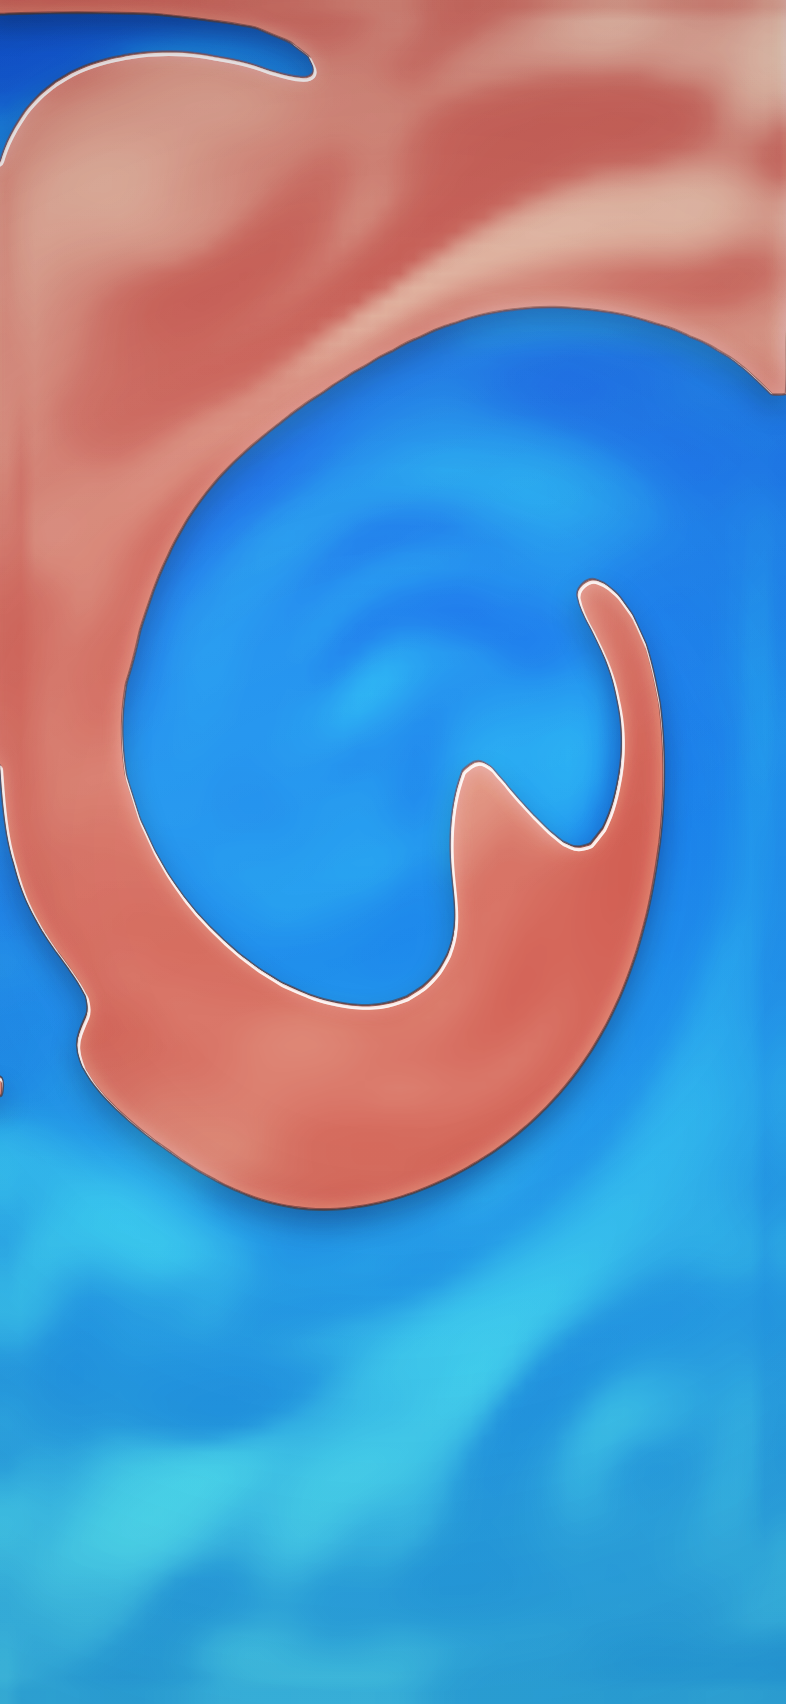
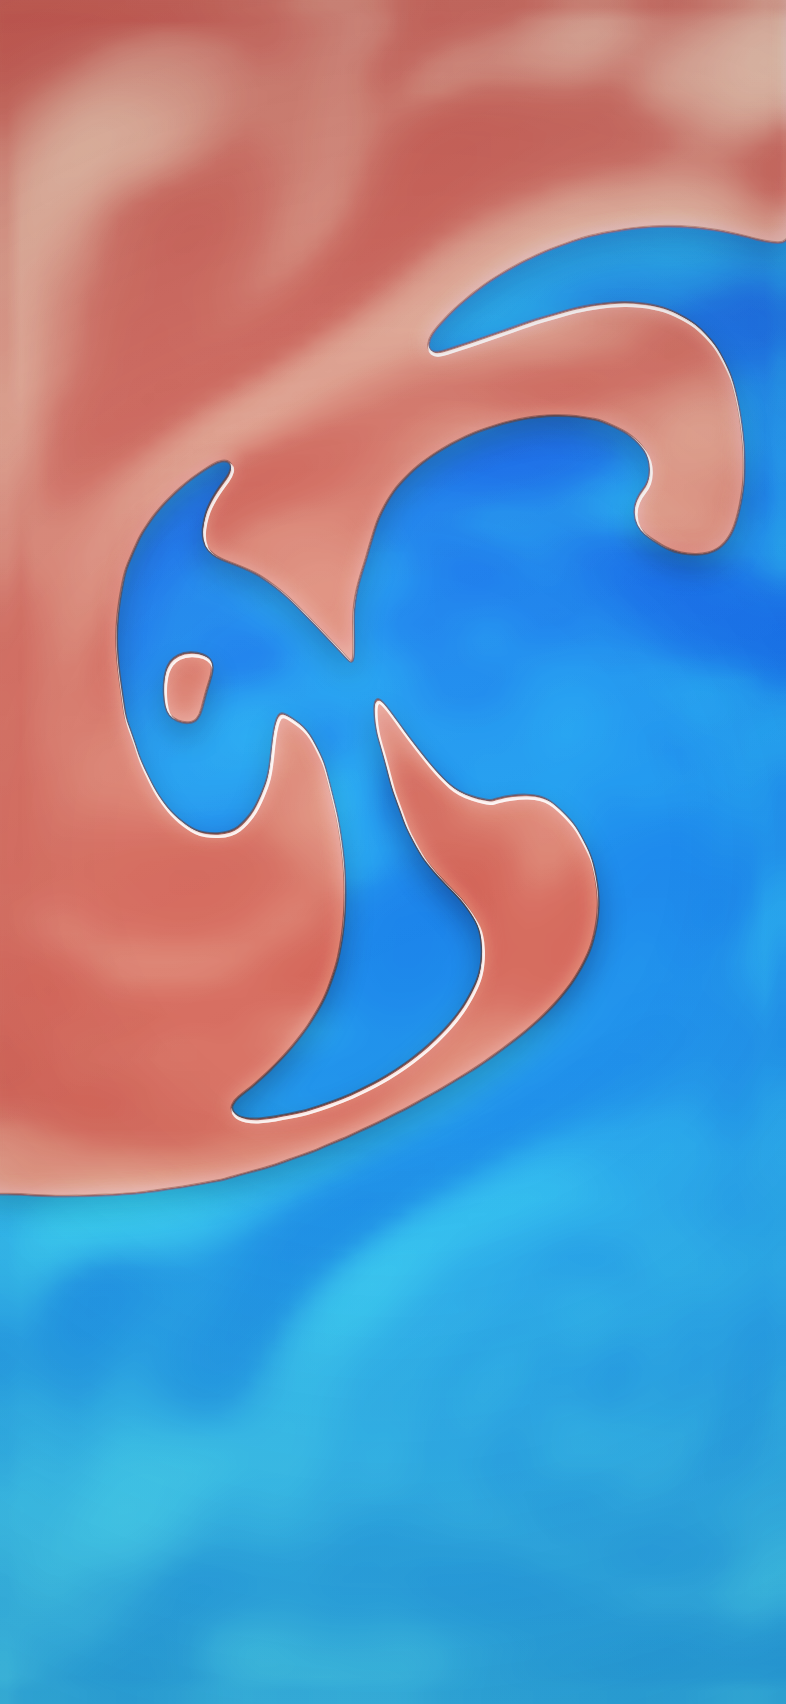
Fix the sign of the interfacial tension force
Fluid is round, and this was not. The boundaries had corners, spikes and long
tapering spears, and nothing was pulling them back. That is not a shading
problem, which is where the last two commits went looking; it is the force
that exists to make boundaries round pointing the wrong way.

The Korteweg force is +mu*grad(phi), equal to -phi*grad(mu) up to a gradient
the pressure projection absorbs. This had the minus. On a droplet, phi falls
outward so grad(phi) points inward, and mu at the rim is about
-eps^2*phi_r/r with phi_r negative, so mu is positive: positive times inward
is inward, which is the Laplace pressure squeezing the drop into the smallest
boundary that will hold it. With the minus it points outward, and every bump
on the interface is a bump the force makes bigger.

The test that settles it is one line — plant a square in still liquid and ask
whether it becomes a circle — and it did not exist, which is why the bug
survived three rounds of tuning and two renderer rewrites. Measured as the
isoperimetric quotient 4*pi*A/P^2, where a circle is 1.00 and a square 0.79:
with the wrong sign a square fell to 0.47 over sixteen seconds, and to 0.17
at eight times the coefficient, because a stronger anti-surface-tension
roughens faster. With the sign fixed it reaches 0.99 in two seconds and 1.00
in four; a plus-sign goes from 0.69 to 1.00 in two.

It hid because Allen-Cahn relaxation is mean-curvature flow, so the phase
[…]

diff --git a/wallpaper/oil-water.html b/wallpaper/oil-water.html
@@ -520,7 +520,13 @@ const PROJECT_ITERS = 18;
  */
 const EPS = 1.2, EPS2 = EPS * EPS;
 const MOBILITY = 0.4;
-const TENSION = 300 * CONFIG.tension;
+/* Doubled once the force was pointing the right way. Everything about this
+ * number was tuned against a sign error — it had been dropped from 900 to
+ * 300 because raising it made the interface *worse*, which is what an
+ * anti-surface-tension does. With the sign fixed, more of it is better: it
+ * rounds a planted square into a circle in about two seconds instead of
+ * four, and a shake still tears the layer into twenty-odd bodies. */
+const TENSION = 600 * CONFIG.tension;
 const RIPPLE_RESET = 0.55;   // 1/s, how fast the surface re-roughens
 
 function idx(i, j) { return j * GW + i; }
@@ -809,15 +815,43 @@ function fixedStep(dt) {
     }
   }
 
-  // Interfacial tension, from the potential rather than from a curvature.
+  /* Interfacial tension, from the potential rather than from a curvature.
+   *
+   * The sign here is the whole of it, and it was wrong. The Korteweg force
+   * is +mu*grad(phi) — equal to -phi*grad(mu) up to a gradient the pressure
+   * projection absorbs — and this had the minus, which is an *anti*-surface
+   * tension: a force that pays to make interface instead of to remove it.
+   *
+   * Check it on a droplet. Oil is phi = +1 inside, so phi falls outward and
+   * grad(phi) points inward. At the rim mu is about -eps^2 * phi_r / r, and
+   * phi_r is negative, so mu is positive. Positive times inward is inward,
+   * which is the Laplace pressure squeezing the drop into the smallest
+   * boundary that will hold it. With the minus it points outward, and every
+   * bump on the interface is a bump the force makes bigger.
+   *
+   * Everything about how this looked follows from that one character. Blobs
+   * had corners and spikes and long thin spears, because nothing was pulling
+   * them round; filaments never beaded; and the harder the coefficient was
+   * driven the worse it got. Measured on a planted square, with no gravity
+   * and nothing else acting: it went from an isoperimetric quotient of 0.81
+   * to 0.47 over sixteen seconds instead of rising toward a circle's 1.0,
+   * and at a coefficient of eight it reached 0.17.
+   *
+   * It was masked at first. Allen-Cahn relaxation is mean-curvature flow, so
+   * it rounds shapes on its own, and at the mobility this shipped with
+   * originally it was outrunning the bad force. Lowering the mobility while
+   * chasing fragmentation took that cover away — so the bug was introduced
+   * on day one and only became visible three commits later, which is why the
+   * "fluid isn't round" reading was pointing at the physics and not at the
+   * shading it looked like it was pointing at. */
   chemicalPotential();
   for (let j = 1; j < GH - 1; j++) {
     for (let i = 1; i < GW - 1; i++) {
       const k = j * GW + i;
       const gxp = (phi[k + 1] - phi[k - 1]) * 0.5;
       const gyp = (phi[k + GW] - phi[k - GW]) * 0.5;
-      u[k] -= TENSION * mu[k] * gxp * dt;
-      v[k] -= TENSION * mu[k] * gyp * dt;
+      u[k] += TENSION * mu[k] * gxp * dt;
+      v[k] += TENSION * mu[k] * gyp * dt;
     }
   }
 
@@ -1088,6 +1122,49 @@ function contour() {
     else loopLen = start;
   }
   loopStart[loopCount] = loopLen;
+  smoothLoops();
+}
+
+/* Taubin smoothing on the extracted polygons.
+ *
+ * The field is smooth; the polygon is not. Marching squares puts a vertex on
+ * every grid edge the isoline crosses and joins them with straight segments,
+ * so the outline picks up angular detail at the cell scale that is an
+ * artefact of the sampling and is not in the field being sampled. On a
+ * fifty-six cell grid stretched across a phone that reads as facets on
+ * something that should not have any.
+ *
+ * Taubin rather than plain Laplacian: a shrink pass followed by a slightly
+ * larger unshrink pass, which removes the high-frequency wiggle without
+ * pulling the whole contour inward. Plain smoothing would quietly eat the
+ * oil, and this page has spent enough effort conserving its mass to not want
+ * the renderer losing it again.
+ */
+const SMOOTH_L = 0.55, SMOOTH_M = -0.58, SMOOTH_PASSES = 2;
+let smoothBuf = null;
+
+function smoothLoops() {
+  if (!smoothBuf || smoothBuf.length < loopLen * 2) smoothBuf = new Float32Array(loopLen * 2 + 64);
+  for (let pass = 0; pass < SMOOTH_PASSES * 2; pass++) {
+    const k = (pass & 1) ? SMOOTH_M : SMOOTH_L;
+    for (let L = 0; L < loopCount; L++) {
+      const st = loopStart[L], en = loopStart[L + 1], m = en - st;
+      if (m < 5) continue;
+      for (let n = 0; n < m; n++) {
+        const c = st + n;
+        const a = st + (n + m - 1) % m, b = st + (n + 1) % m;
+        smoothBuf[c * 2] = loopXY[c * 2] +
+          k * ((loopXY[a * 2] + loopXY[b * 2]) * 0.5 - loopXY[c * 2]);
+        smoothBuf[c * 2 + 1] = loopXY[c * 2 + 1] +
+          k * ((loopXY[a * 2 + 1] + loopXY[b * 2 + 1]) * 0.5 - loopXY[c * 2 + 1]);
+      }
+      for (let n = 0; n < m; n++) {
+        const c = st + n;
+        loopXY[c * 2] = smoothBuf[c * 2];
+        loopXY[c * 2 + 1] = smoothBuf[c * 2 + 1];
+      }
+    }
+  }
 }
 
 /** The extracted loops as one path, smoothed. The polygon's vertices sit on
@@ -1594,6 +1671,28 @@ window.__shaker = {
   diag(on) { diagOn = !!on; diagSince = performance.now(); diagFrames = 0; diagJs = 0; },
   icon(size) { return installIcon(size); },
 
+  /** Plant a known shape — "square", "cross" or "disc" — in still liquid.
+   *
+   *  This is a test fixture and it is here on purpose. Interfacial tension
+   *  exists to minimise perimeter, so the one-line statement of whether it
+   *  works is "does a square become a circle", and there is no way to ask
+   *  that of a cell full of whatever the last shake left behind. The sign
+   *  error this page shipped with survived three rounds of tuning and two
+   *  renderer rewrites precisely because nothing could ask it. */
+  plant(kind) {
+    for (let j = 0; j < GH; j++) for (let i = 0; i < GW; i++) {
+      const x = (i - GW / 2) / (GW * 0.5), y = (j - GH / 2) / (GW * 0.5);
+      let d;
+      if (kind === "square") d = 0.42 - Math.max(Math.abs(x), Math.abs(y));
+      else if (kind === "cross") d = 0.42 - Math.min(Math.max(Math.abs(x), Math.abs(y) - 0.3),
+                                                     Math.max(Math.abs(x) - 0.3, Math.abs(y)));
+      else d = 0.42 - Math.hypot(x, y);
+      phi[j * GW + i] = Math.tanh(d * GW * 0.5 / 1.4);
+    }
+    u.fill(0); v.fill(0); p.fill(0);
+    targetMean = meanPhi();
+  },
+
   /** Shake it without shaking it. */
   shake: emulsify,
 
@@ -1621,6 +1720,32 @@ window.__shaker = {
        * and is the honest measure of "has it separated". */
       interfaceCells: interface_ / cells,
       blobs: loopCount, drawnArea: drawnArea(),
+      /* Roundness, as the isoperimetric quotient 4*pi*A / P^2 of the whole
+       * oil phase. One for a circle, 0.79 for a square, and tending to zero
+       * for anything long and thin or spiky.
+       *
+       * This is the number that says whether the thing on screen is behaving
+       * like a liquid, and it was missing. Interfacial tension exists to
+       * minimise perimeter for a given area, so a page that renders a fluid
+       * correctly *cannot* sit at a low value for long — every sharp corner
+       * is a curvature singularity that the force is supposed to eat. Not
+       * measuring it is how the interfacial tension got tuned down to a
+       * third of its original strength while chasing fragmentation, without
+       * anyone noticing that the oil had stopped being round. */
+      roundness: (() => {
+        const A = Math.abs(drawnArea()) * W * H;
+        let P = 0;
+        for (let L = 0; L < loopCount; L++) {
+          const st = loopStart[L], en = loopStart[L + 1], m = en - st;
+          if (m < 3) continue;
+          for (let n = 0; n < m; n++) {
+            const i0 = st + n, i1 = st + (n + 1) % m;
+            P += Math.hypot(loopXY[i1 * 2] - loopXY[i0 * 2],
+                            loopXY[i1 * 2 + 1] - loopXY[i0 * 2 + 1]);
+          }
+        }
+        return P > 0 ? 4 * Math.PI * A / (P * P) : 0;
+      })(),
       /* Total interface length, in grid crossings. The honest measure of
        * "is it still mixed": one crossing per cell the boundary passes
        * through, so it is the perimeter and nothing else. `interfaceCells`

diff --git a/wallpaper/OIL-WATER.md b/wallpaper/OIL-WATER.md
@@ -10,12 +10,14 @@ the sealed-container line, after the [liquid shaker](./README.md) and the
 [bubble wrap](./BUBBLE-WRAP.md), sharing their sensor model, their `ramp`
 parameter and their `window.__shaker` host interface.
 
-![Oil wound into a vortex a second after a shake, both liquids showing flow sheen](../docs/screenshots/oil-water.png)
+![Rounded interpenetrating lobes of oil and water a second after a shake](../docs/screenshots/oil-water.png)
 
-Above: a second after a two-and-a-half second shake. The oil has been wound
-around an eddy and is rounding itself off again; the light and dark bands
-lying across both liquids are their surfaces being carried by the same
-velocity field, which is where most of the "this is liquid" comes from.
+Above: a second after a two-and-a-half second shake. Every boundary is curved
+and rounding itself off, with a bead of oil already pinched free into the
+water — which is interfacial tension doing the only thing it does, minimising
+perimeter. Before the sign of that force was fixed, the same moment came out
+as spikes and spears. The light and dark bands lying across both liquids are
+their surfaces being carried by the same velocity field.
 
 ## Try it
 
@@ -79,6 +81,56 @@ the field advects but never relaxes, and the page becomes the shaker's dye
 again — measured, the interface smears across 96% of the cell and never
 separates. The relaxation is the immiscibility, and nothing else is.
 
+### The sign of that force was wrong, and it was the whole problem
+
+The Korteweg force is `+mu * grad(phi)` — equal to `-phi * grad(mu)` up to a
+gradient the pressure projection absorbs. This shipped with the minus, which
+is an *anti*-surface tension: a force that pays to make interface rather than
+to remove it.
+
+Check it on a droplet. Oil is `phi = +1` inside, so `phi` falls outward and
+`grad(phi)` points inward. At the rim `mu` is about `-eps² * phi_r / r`, and
+`phi_r` is negative, so `mu` is positive. Positive times inward is inward —
+the Laplace pressure squeezing the drop into the smallest boundary that will
+hold it. With the minus it points outward, and every bump on the interface is
+a bump the force makes bigger.
+
+Everything about how this looked followed from that one character. Blobs had
+corners and spikes and long thin spears, because nothing was pulling them
+round. Filaments never beaded. And the harder the coefficient was driven the
+worse it got — which is why it had been tuned *down* from 900 to 300 over
+several passes, each one reducing a bug rather than a parameter.
+
+The measurement that settles it is one line: **plant a square in still liquid
+and ask whether it becomes a circle.** The isoperimetric quotient `4πA/P²` is
+1.0 for a circle and 0.79 for a square, so this is a number, not an opinion:
+
+| | t=0 | 0.5s | 1s | 2s | 4s | 8s | 16s |
+| --- | --- | --- | --- | --- | --- | --- | --- |
+| square, wrong sign | 0.81 | 0.82 | 0.81 | 0.76 | 0.65 | 0.51 | **0.47** |
+| square, wrong sign, ×8 coefficient | 0.81 | 0.73 | 0.55 | 0.34 | 0.38 | 0.21 | **0.17** |
+| square, fixed | 0.81 | 0.86 | 0.94 | **0.99** | 1.00 | 1.00 | 1.00 |
+| plus-sign, fixed | 0.69 | 0.78 | 0.93 | **1.00** | 1.00 | 1.00 | 1.00 |
+
+(With gravity switched off, so the only thing acting is the tension. Left on,
+a planted square also rises and deforms, which is a different question.)
+
+It hid for a long time, and the way it hid is the interesting part.
+Allen–Cahn relaxation *is* mean-curvature flow, so the phase field rounds
+shapes on its own, independently of the hydrodynamics. At the mobility this
+originally shipped with, that relaxation was outrunning the bad force and the
+interfaces looked plausible. Lowering the mobility while chasing fragmentation
+took the cover away. So the bug was introduced on the first day and only
+became visible three commits later — long after the code that contained it had
+stopped being what anyone was looking at.
+
+Two things follow that are worth keeping. First, `stats().roundness` is now a
+first-class diagnostic and `__shaker.plant()` is a permanent fixture, because
+the one-line statement of what interfacial tension is *for* is "it minimises
+perimeter", and nothing in the page could ask that question. Second, every
+constant tuned before the fix was tuned against it: the tension coefficient
+has gone back up to 600, and the measurements below were all retaken.
+
 **Mass has to be conserved and Allen–Cahn does not conserve it.** Left alone
 the oil quietly evaporates, smallest droplets first, which on a wallpaper
 means the thing empties itself over an afternoon. The fix is a Lagrange
@@ -88,7 +140,7 @@ fluid, so the correction nudges boundaries instead of tinting whole regions.
 Measured over seventy-five seconds and six full shake-and-settle cycles, the
 conserved mean drifts by 3.6 × 10⁻¹⁰.
 
-## Three things that were wrong
+## Three more things that were wrong
 
 All three presented as the same symptom — the cell never came to rest — and
 none of them were what that symptom looked like.
@@ -143,12 +195,19 @@ the only forcing is the effective gravity acting differentially on the two
 phases, and with the real density difference of oil and water, about a tenth,
 that forcing is weaker than the buoyancy already holding the layer together.
 
-Measured, at a realistic gain a two-and-a-half second shake at 2.5Hz moved the
-interface length by twelve per cent. Dropping the interfacial tension by a
-factor of ten did not change that, which is the useful part of the result: the
-drive was nowhere near the instability threshold, so lowering the threshold
-was not the answer, and no amount of tuning the other constants was going to
-be either.
+Measured again after the sign fix, since the first figure was taken against a
+broken force and could not be trusted: at a realistic gain a two-and-a-half
+second shake at 2.5Hz moves the interface length by four per cent — 228
+crossings against a resting 220 — and leaves the oil in one piece at a
+roundness of 0.79, unchanged. At the shipped gain the same shake takes it to
+1182 crossings, nineteen separate bodies and a roundness of 0.04.
+
+| effective gain | peak perimeter | peak bodies | lowest roundness |
+| --- | --- | --- | --- |
+| 4.5 (realistic) | 228 | 1 | 0.79 |
+| 20 | 256 | 1 | 0.73 |
+| 60 | 562 | 8 | 0.17 |
+| 180 (shipped) | 1182 | 19 | 0.04 |
 
 So the gain is dialled far above life, deliberately. What it buys is the thing
 the product is for. What it costs is a claim nobody should read as a
@@ -189,6 +248,15 @@ Two details that make it robust rather than nearly-working:
   off two edges and never closes, and an open path cannot be filled. With it,
   every loop closes off-screen and the visible area is still covered edge to
   edge.
+
+The extracted polygons then get two passes of **Taubin smoothing**. The field
+is smooth; the polygon is not — marching squares puts a vertex on every grid
+edge the isoline crosses and joins them with straight segments, so the outline
+picks up angular detail at the cell scale that is an artefact of the sampling
+and is not in the field being sampled. Taubin rather than plain Laplacian: a
+shrink pass followed by a slightly larger unshrink pass, because plain
+smoothing would quietly eat the oil and this page has spent enough effort
+conserving its mass not to want the renderer losing it again.
 
 The segments are directed so oil is always on the left of travel, which makes
 the winding consistent, which makes a hole in a blob fill as a hole under the
@@ -304,12 +372,14 @@ reproducible from the first tick.
 
 | Property | Result |
 | --- | --- |
-| Frame-rate independence (same impulse at 20 / 60 / 144fps) | identical oil fraction, perimeter, blob count and RMS |
+| A planted square, no gravity | isoperimetric quotient 0.81 → 0.99 in 2s, 1.00 by 4s |
+| A planted plus-sign, no gravity | 0.69 → 1.00 in 2s |
+| Frame-rate independence (same impulse at 20 / 60 / 144fps) | identical oil fraction, perimeter, blob count and roundness |
 | Determinism from `seed` | identical run twice; a different seed differs |
-| Mass drift, 75s over 6 shake-and-settle cycles | 8.2 × 10⁻¹⁰; `phi` stays inside [-1, 1] |
+| Mass drift, 75s over 6 shake-and-settle cycles | 1.1 × 10⁻⁹; `phi` stays inside [-1, 1] |
 | Rest state | 4px/s RMS (was 126 before the two projection fixes) |
-| A 2.5s shake at 2.5Hz | interface length 220 → ~1000 crossings, up to 26 separate bodies |
-| Settling after that shake | back to one layer in about 20 seconds |
+| A 2.5s shake at 2.5Hz | perimeter 220 → 1182 crossings, 19 separate bodies, roundness to 0.04 |
+| Settling after that shake | roundness back to 0.79 — one layer — in about 15 seconds |
 | Mobility set to zero | interface smears to 96% of the cell and never separates — i.e. it becomes the shaker's dye |
 
 Cost against resolution, on a software rasteriser with no GPU:
